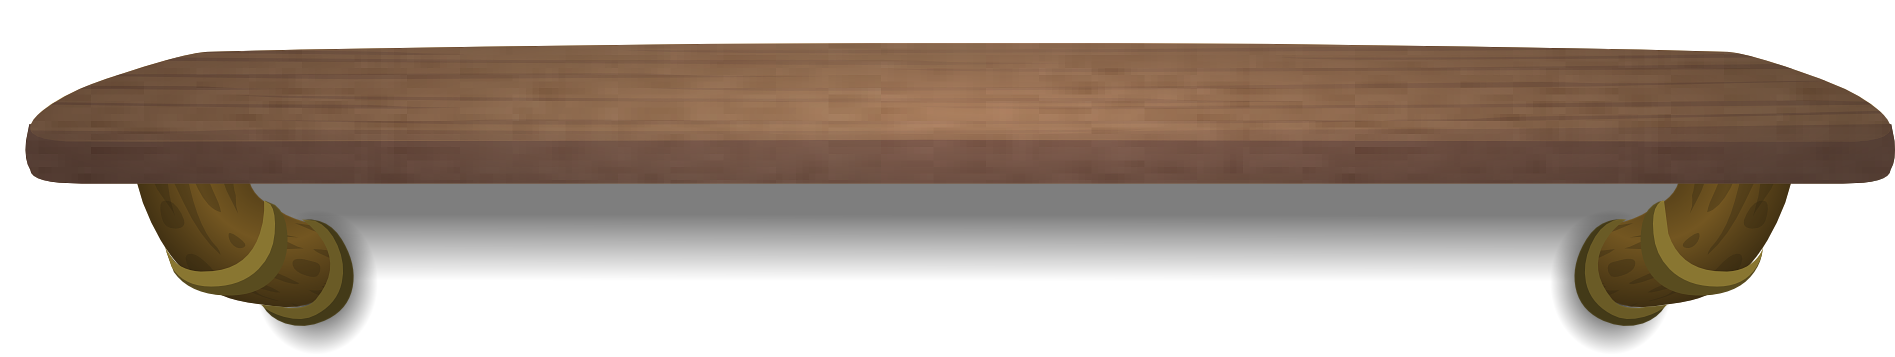
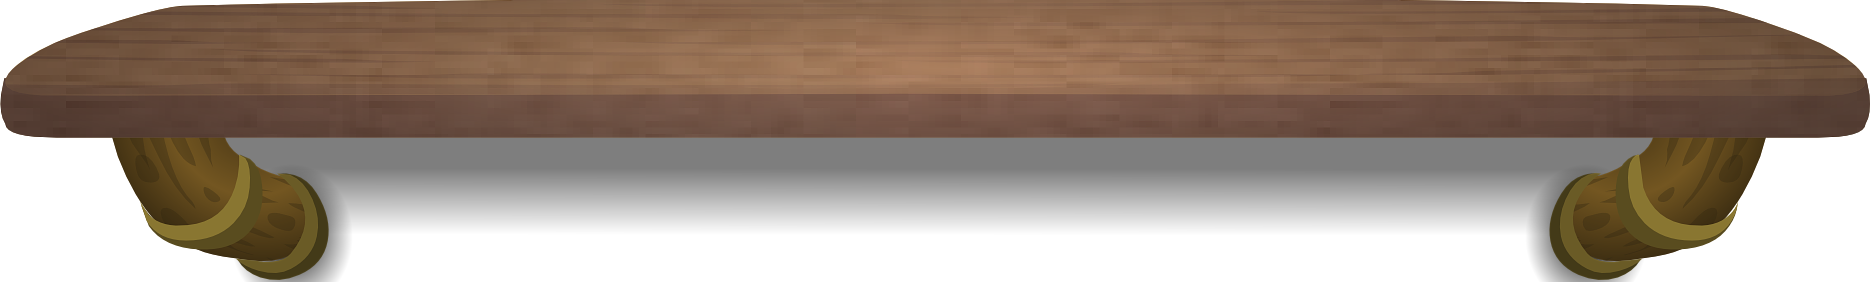
Resolved bug on number of options for issues

Changed region(s): [[0.0, 0.0, 1.0, 1.0]]

diff --git a/troubles-experience/src/pages/scales/scales.js b/troubles-experience/src/pages/scales/scales.js
@@ -31,7 +31,7 @@ import './scales.css';
 
 const Scales = () => {
   // STATE OF SCALES/BOOKSHELF/ISSUES
-  const [peaceScales, setPeaceScales] = useState(new ScalesObject([], [], [], 50, 50));
+  const [peaceScales, setPeaceScales] = useState(new ScalesObject([], [], [], 0, 0));
   const [bookshelfObject, setBookshelfObject] = useState(new BookshelfObject([]));
   const [selectedIssue, setSelectedIssue] = useState(null);
   const [balancePercentage, setBalancePercentage] = useState(100);
@@ -102,7 +102,7 @@ const Scales = () => {
 
   // Initialise Scales & Bookshelf & Issues
   function initialiseScales() {           
-    setPeaceScales(new ScalesObject([], [], [], 50, 50));
+    setPeaceScales(new ScalesObject([], [], [], 0, 0));
   }
 
   function initialiseBookshelfObject() {
@@ -110,7 +110,7 @@ const Scales = () => {
   }
 
   function initialiseIssues(issues) {
-    setPeaceScales(new ScalesObject([], [], [], 50, 50));
+    setPeaceScales(new ScalesObject([], [], [], 0, 0));
     setBookshelfObject(new BookshelfObject(issues));
     pageTitle = phaseNames[currentPhase];
   }
@@ -169,6 +169,7 @@ const fetchIssues = async () => {
           issue.option_c_nationalist_perspective,
           issue.option_c_unionist_weight,
           issue.option_c_unionist_perspective,
+          issue.number_of_options,
           "X"
         );
       });
@@ -356,23 +357,20 @@ const fetchIssues = async () => {
 
     const totalWeight = nationalistWeight + unionistWeight;
 
-    // Calculate percentages
-    let unionistPercentage = 0;
-    let nationalistPercentage = 0;
+    let percentage = 0;
+    let roundedPercentage = 0;
 
-    if (unionistWeight !== 0) {
-      unionistPercentage = (unionistWeight / totalWeight) * 100;
+    if (unionistWeight == 0 || nationalistWeight == 0) {
+      setBalancePercentage(0);
+    } else if (unionistWeight >= nationalistWeight) {
+      percentage = (nationalistWeight / unionistWeight) * 100;
+      roundedPercentage = parseFloat(percentage.toFixed(2));
+      setBalancePercentage(roundedPercentage);
+    } else {
+      percentage = (unionistWeight / nationalistWeight) * 100;
+      roundedPercentage = parseFloat(percentage.toFixed(2));
+      setBalancePercentage(roundedPercentage);
     }
-
-    if (nationalistWeight !== 0) {
-      nationalistPercentage = (nationalistWeight / totalWeight) * 100;
-    }
-    
-    // Calculate balance percentage
-    const balancePercentage = Math.abs(nationalistPercentage - unionistPercentage);
-    const roundedBalancePercentage = parseFloat(balancePercentage.toFixed(2)); // Rounding to 2 decimal places
-
-    setBalancePercentage(roundedBalancePercentage);
 
   }
 
@@ -405,7 +403,7 @@ const fetchIssues = async () => {
     
     // Adjust heights inversely based on tilt
     // The side tilting down gets a height boost, the other side gets a reduction
-    const heightAdjustment = tiltRatio * 20; // Max adjustment of 20% for max tilt
+    const heightAdjustment = tiltRatio * 30; // Max adjustment of 20% for max tilt
     
     let newUnionistHeight, newNationalistHeight;
     if (tiltAngle > 0) { // Nationalist side tilts down
@@ -471,7 +469,7 @@ const fetchIssues = async () => {
                     <div className='bookOnShelf'
                     onClick={displayIssueInfo.bind(this, issue)}>
                       <img
-                        src={process.env.PUBLIC_URL + '/single-book.png'}
+                        src={process.env.PUBLIC_URL + '/IMG_2965.png'}
                           alt="Bookshelf"
                           style={{ width: '2em', 
                                     height: 'auto',

diff --git a/troubles-experience/src/dialogs/issueDialog/issueDialog.js b/troubles-experience/src/dialogs/issueDialog/issueDialog.js
@@ -60,7 +60,7 @@ const IssueDialog = ({ isOpen, handleClose, issue, handleOptionA, handleOptionB,
                      }}>
           <Button onClick={handleOptionA}>{issue?.optionA}</Button>
           <Button onClick={handleOptionB}>{issue?.optionB}</Button>
-          { (issue?.number_of_options == 3) && (
+          { (issue?.numberOfOptions === 3) && (
             <Button onClick={handleOptionC}>{issue?.optionC}</Button>
           )}
         </ButtonGroup>

diff --git a/troubles-experience/src/pages/scales/scales.css b/troubles-experience/src/pages/scales/scales.css
@@ -75,17 +75,17 @@
 .shelf-and-scale-wrapper {
   display: flex;
   width: 100%;
-  height: 100%;
+  height: 50vh; /* Adjust height as needed */
 }
 
 .shelf-zone {
   flex: 1;
-  width: 1000px;
+  width: 100%;
   height: 500px;
 }
 
 .books {
-  margin-top: 30%;
+  margin-top: 20%;
   display: flex;
   height: auto;
   width: auto;
